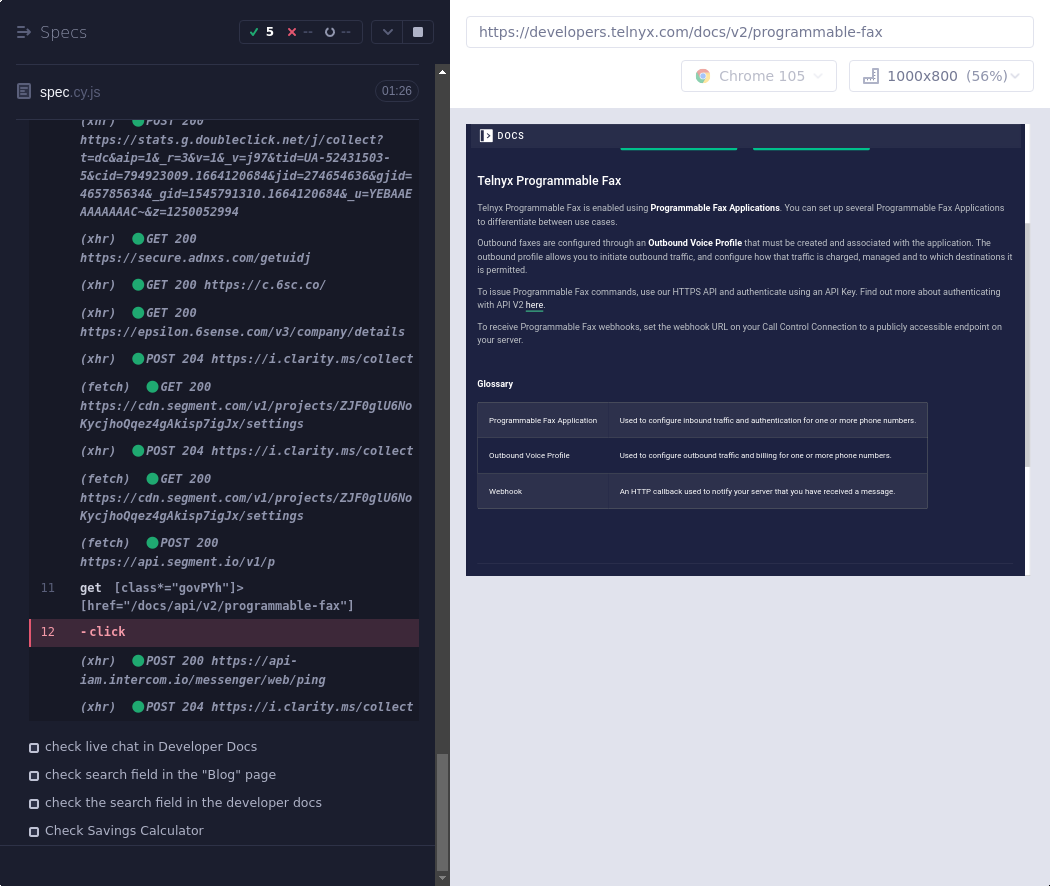
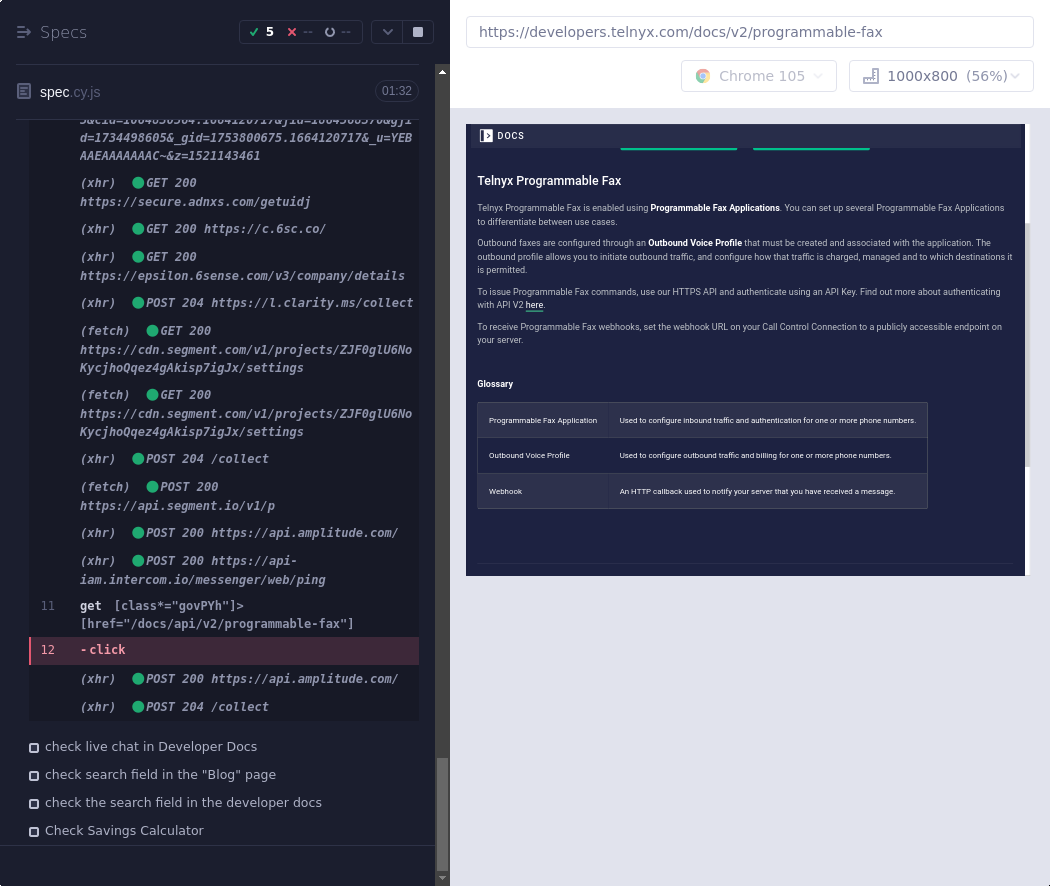
Deploying to gh-pages from @ DenysT07/cypress_autotest@f512103bbeec0a4104b3bbae30fe05e231874034 🚀

Changed region(s): [[0.0305, 0.1219, 0.3962, 0.8228]]

diff --git a/index.html b/index.html
@@ -1,2 +1,2 @@
 <!doctype html>
-<html lang="en"><head><meta charSet="utf-8"/><meta http-equiv="X-UA-Compatible" content="IE=edge"/><meta name="viewport" content="width=device-width, initial-scale=1"/><title>Mochawesome Report</title><link rel="stylesheet" href="assets/app.css"/></head><body data-raw="{&quot;stats&quot;:{&quot;suites&quot;:1,&quot;tests&quot;:10,&quot;passes&quot;:9,&quot;pending&quot;:0,&quot;failures&quot;:1,&quot;start&quot;:&quot;2022-09-25T15:43:26.224Z&quot;,&quot;end&quot;:&quot;2022-09-25T15:45:40.666Z&quot;,&quot;duration&quot;:108730,&quot;testsRegistered&quot;:10,&quot;passPercent&quot;:90,&quot;pendingPercent&quot;:0,&quot;other&quot;:0,&quot;hasOther&quot;:false,&quot;skipped&quot;:0,&quot;hasSkipped&quot;:false},&quot;results&quot;:[{&quot;uuid&quot;:&quot;118c2c52-854c-4d2f-9dbb-179f91965720&quot;,&quot;title&quot;:&quot;&quot;,&quot;fullFile&quot;:&quot;cypress/e2e/spec/spec.cy.js&quot;,&quot;file&quot;:&quot;cypress/e2e/spec/spec.cy.js&quot;,&quot;beforeHooks&quot;:[],&quot;afterHooks&quot;:[],&quot;tests&quot;:[],&quot;suites&quot;:[{&quot;uuid&quot;:&quot;a7c3ea58-0657-4df8-a0f6-82c290bb8d34&quot;,&quot;title&quot;:&quot;registration forms tests&quot;,&quot;fullFile&quot;:&quot;cypress/e2e/spec/spec.cy.js&quot;,&quot;file&quot;:&quot;cypress/e2e/spec/spec.cy.js&quot;,&quot;beforeHooks&quot;:[],&quot;afterHooks&quot;:[],&quot;tests&quot;:[{&quot;title&quot;:&quot;Check registration page&quot;,&quot;fullTitle&quot;:&quot;registration forms tests Check registration page&quot;,&quot;timedOut&quot;:null,&quot;duration&quot;:27012,&quot;state&quot;:&quot;passed&quot;,&quot;speed&quot;:&quot;slow&quot;,&quot;pass&quot;:true,&quot;fail&quot;:false,&quot;pending&quot;:false,&quot;context&quot;:null,&quot;code&quot;:&quot;_mainPage.default.singUpClick();\n_registrationPage.default.fillNameField(randomstring);\n_registrationPage.default.fillEmailField(randomstring + &#x27;@gmail.com&#x27;);\n_registrationPage.default.fillpasswordfield(randomstringForPassword);\n_registrationPage.default.clickBothCheckBoxes();\n_registrationPage.default.clickCreataAccounyButt();\ncy.wait(10000);\n_registrationPage.default.clickCreataAccounyButt(); //to pass the recapcha need to press the button two times, work only in chrome\n\ncy.wait(10000);\n_registrationPage.default.sendEmailMessage.should(\&quot;have.text\&quot;, \&quot;reCAPTCHA validation required\&quot;);&quot;,&quot;err&quot;:{},&quot;uuid&quot;:&quot;6782b108-0c92-4a94-a9cb-f240ac81bb13&quot;,&quot;parentUUID&quot;:&quot;a7c3ea58-0657-4df8-a0f6-82c290bb8d34&quot;,&quot;isHook&quot;:false,&quot;skipped&quot;:false},{&quot;title&quot;:&quot;Check the \&quot;Talk to an expert\&quot; page&quot;,&quot;fullTitle&quot;:&quot;registration forms tests Check the \&quot;Talk to an expert\&quot; page&quot;,&quot;timedOut&quot;:null,&quot;duration&quot;:6246,&quot;state&quot;:&quot;passed&quot;,&quot;speed&quot;:&quot;medium&quot;,&quot;pass&quot;:true,&quot;fail&quot;:false,&quot;pending&quot;:false,&quot;context&quot;:null,&quot;code&quot;:&quot;_mainPage.default.rightMenueClick();\n_mainPage.default.talkToAnExpertButt();\n_talkToAnExpertPage.default.reasonDroplistSelect(&#x27;Support&#x27;);\n_talkToAnExpertPage.default.firstNameFill(randomstring);\n_talkToAnExpertPage.default.lastNameFill(randomstring);\n_talkToAnExpertPage.default.buisnesEmailFill(randomstring + &#x27;@gmail.com&#x27;);\n_talkToAnExpertPage.default.phoneNumberFill(phoneNumber);\n_talkToAnExpertPage.default.companyWebSiteFill(&#x27;http://www.&#x27; + randomstring + &#x27;.com/&#x27;);\n_talkToAnExpertPage.default.additionalInformationFill(&#x27;It is just a test&#x27;);\n_talkToAnExpertPage.default.countryCodeSelect(&#x27;+380&#x27;);\n_talkToAnExpertPage.default.checkBoxClick();\n_talkToAnExpertPage.default.submitClick();\n_talkToAnExpertPage.default.messageAfterRegist.should(\&quot;have.text\&quot;, \&quot;Thanks for Reaching Out!\&quot;);&quot;,&quot;err&quot;:{},&quot;uuid&quot;:&quot;2d0014fb-c6b3-494d-83ee-345f2ee327d3&quot;,&quot;parentUUID&quot;:&quot;a7c3ea58-0657-4df8-a0f6-82c290bb8d34&quot;,&quot;isHook&quot;:false,&quot;skipped&quot;:false},{&quot;title&quot;:&quot;check registration for beta testing on the integration page&quot;,&quot;fullTitle&quot;:&quot;registration forms tests check registration for beta testing on the integration page&quot;,&quot;timedOut&quot;:null,&quot;duration&quot;:9114,&quot;state&quot;:&quot;passed&quot;,&quot;speed&quot;:&quot;medium&quot;,&quot;pass&quot;:true,&quot;fail&quot;:false,&quot;pending&quot;:false,&quot;context&quot;:null,&quot;code&quot;:&quot;_mainPage.default.rightMenueClick();\n_mainPage.default.companyButtclick();\n_mainPage.default.integrationButtClick({\n  timeout: 2000\n});\ncy.wait(2000);\ncy.scrollTo(&#x27;bottom&#x27;);\n_integrationPage.default.firstNameFill(randomstring);\n_integrationPage.default.lastNameFill(randomstring);\n_integrationPage.default.buisnesEmailFill(randomstring + &#x27;@gmail.com&#x27;);\n_integrationPage.default.indastryFill(randomstring);\n_integrationPage.default.companyWebSiteFill(&#x27;http://www.&#x27; + randomstring + &#x27;.com/&#x27;);\n_integrationPage.default.useCaseDropListSelect(&#x27;Other&#x27;);\n_integrationPage.default.submitClick();\n_integrationPage.default.messageAfterRegist.should(\&quot;have.text\&quot;, \&quot;Thanks for your interest!\&quot;);&quot;,&quot;err&quot;:{},&quot;uuid&quot;:&quot;e50322c9-2537-4a9f-a2f4-d1308b007b25&quot;,&quot;parentUUID&quot;:&quot;a7c3ea58-0657-4df8-a0f6-82c290bb8d34&quot;,&quot;isHook&quot;:false,&quot;skipped&quot;:false},{&quot;title&quot;:&quot;check registrations for becoming a Telnix Partner on the Partners page &quot;,&quot;fullTitle&quot;:&quot;registration forms tests check registrations for becoming a Telnix Partner on the Partners page &quot;,&quot;timedOut&quot;:null,&quot;duration&quot;:7723,&quot;state&quot;:&quot;passed&quot;,&quot;speed&quot;:&quot;medium&quot;,&quot;pass&quot;:true,&quot;fail&quot;:false,&quot;pending&quot;:false,&quot;context&quot;:null,&quot;code&quot;:&quot;_mainPage.default.rightMenueClick();\n_mainPage.default.companyButtclick();\n_mainPage.default.partnerButtClick();\ncy.wait(2000);\ncy.scrollTo(&#x27;bottom&#x27;);\n_partnerPage.default.firstNameFill(randomstring);\n_partnerPage.default.lastNameFill(randomstring);\n_partnerPage.default.buisnesEmailFill(randomstring + &#x27;@gmail.com&#x27;);\n_partnerPage.default.phoneFill(&#x27;380&#x27; + phoneNumber);\n_partnerPage.default.companyFill(randomstring);\n_partnerPage.default.TellAsFormFill(&#x27;It is just a test&#x27;);\n_partnerPage.default.partnerTypeDropListSelect(&#x27;MSP&#x27;);\n_partnerPage.default.checkBoxLocClick();\n_partnerPage.default.applyNowButtClick();\ncy.url({\n  timeout: 20000\n}).should(&#x27;contains&#x27;, &#x27;https://telnyx.com/company/partnerships?&#x27;); // there is a bug, i decided to check actual URL to pass this test&quot;,&quot;err&quot;:{},&quot;uuid&quot;:&quot;0372f178-d31f-41bd-bea7-eaa4974ee985&quot;,&quot;parentUUID&quot;:&quot;a7c3ea58-0657-4df8-a0f6-82c290bb8d34&quot;,&quot;isHook&quot;:false,&quot;skipped&quot;:false},{&quot;title&quot;:&quot;check registrations for the Waitlist on the storage page &quot;,&quot;fullTitle&quot;:&quot;registration forms tests check registrations for the Waitlist on the storage page &quot;,&quot;timedOut&quot;:null,&quot;duration&quot;:8331,&quot;state&quot;:&quot;passed&quot;,&quot;speed&quot;:&quot;medium&quot;,&quot;pass&quot;:true,&quot;fail&quot;:false,&quot;pending&quot;:false,&quot;context&quot;:null,&quot;code&quot;:&quot;_mainPage.default.rightMenueClick();\n_mainPage.default.productsButtcClick();\n_mainPage.default.storageButtClock();\ncy.wait(3000);\ncy.scrollTo(&#x27;bottom&#x27;);\n_storagePage.default.firstNameFill(randomstring);\n_storagePage.default.lastNameFill(randomstring);\n_storagePage.default.buisnesEmailFill(randomstring + &#x27;@gmail.com&#x27;);\n_storagePage.default.TellAsFormFill(&#x27;It is just a test&#x27;);\n_storagePage.default.checkBoxClick();\n_storagePage.default.applyNowButtClick();\n_storagePage.default.messageAfterRegist.should(\&quot;have.text\&quot;, \&quot;You&#x27;re on the waitlist!\&quot;);&quot;,&quot;err&quot;:{},&quot;uuid&quot;:&quot;659110a8-4c39-45bc-a735-a1b8c85c1a3e&quot;,&quot;parentUUID&quot;:&quot;a7c3ea58-0657-4df8-a0f6-82c290bb8d34&quot;,&quot;isHook&quot;:false,&quot;skipped&quot;:false}],&quot;suites&quot;:[],&quot;passes&quot;:[&quot;6782b108-0c92-4a94-a9cb-f240ac81bb13&quot;,&quot;2d0014fb-c6b3-494d-83ee-345f2ee327d3&quot;,&quot;e50322c9-2537-4a9f-a2f4-d1308b007b25&quot;,&quot;0372f178-d31f-41bd-bea7-eaa4974ee985&quot;,&quot;659110a8-4c39-45bc-a735-a1b8c85c1a3e&quot;],&quot;failures&quot;:[],&quot;pending&quot;:[],&quot;skipped&quot;:[],&quot;duration&quot;:58426,&quot;root&quot;:false,&quot;rootEmpty&quot;:false,&quot;_timeout&quot;:2000},{&quot;uuid&quot;:&quot;a68c7401-de25-47fe-9ff1-b8a71b6a76b3&quot;,&quot;title&quot;:&quot;Functional tests&quot;,&quot;fullFile&quot;:&quot;cypress/e2e/spec/spec.cy.js&quot;,&quot;file&quot;:&quot;cypress/e2e/spec/spec.cy.js&quot;,&quot;beforeHooks&quot;:[],&quot;afterHooks&quot;:[],&quot;tests&quot;:[{&quot;title&quot;:&quot;check link to the Postman colection&quot;,&quot;fullTitle&quot;:&quot;Functional tests check link to the Postman colection&quot;,&quot;timedOut&quot;:null,&quot;duration&quot;:15091,&quot;state&quot;:&quot;failed&quot;,&quot;speed&quot;:null,&quot;pass&quot;:false,&quot;fail&quot;:true,&quot;pending&quot;:false,&quot;context&quot;:&quot;[{\&quot;title\&quot;:\&quot;Failed screenshot\&quot;,\&quot;value\&quot;:\&quot;screenshots/spec.cy.js/Functional tests -- check link to the Postman colection (failed).png\&quot;}]&quot;,&quot;code&quot;:&quot;_mainPage.default.rightMenueClick();\n_mainPage.default.productsButtcClick();\n_mainPage.default.seeAllProductsButtClick();\n_faxApiPage.default.faxApiButtClick();\n_faxApiPage.default.exploreTheDocButtClick();\n_faxApiPage.default.seeTheSpecButtclick();\n_faxApiPage.default.runInPostmanButtClick();\ncy.url({\n  timeout: 20000\n}).should(&#x27;contains&#x27;, &#x27;d8c640348288&#x27;);&quot;,&quot;err&quot;:{&quot;message&quot;:&quot;CypressError: Timed out retrying after 4050ms: `cy.click()` failed because this element:\n\n`&lt;a color=\&quot;primary\&quot; class=\&quot;sc-45040057-0 ewCCKw sc-992a1474-0 fkNdTQ mchNoDecorate\&quot; href=\&quot;/docs/api/v2/programmable-fax\&quot;&gt;See the...&lt;/a&gt;`\n\nis being covered by another element:\n\n`&lt;label for=\&quot;telnyx-mobile-sidebar\&quot; class=\&quot;sc-249d42c8-0 erLUQr\&quot;&gt;...&lt;/label&gt;`\n\nFix this problem, or use {force: true} to disable error checking.\n\nhttps://on.cypress.io/element-cannot-be-interacted-with&quot;,&quot;estack&quot;:&quot;CypressError: Timed out retrying after 4050ms: `cy.click()` failed because this element:\n\n`&lt;a color=\&quot;primary\&quot; class=\&quot;sc-45040057-0 ewCCKw sc-992a1474-0 fkNdTQ mchNoDecorate\&quot; href=\&quot;/docs/api/v2/programmable-fax\&quot;&gt;See the...&lt;/a&gt;`\n\nis being covered by another element:\n\n`&lt;label for=\&quot;telnyx-mobile-sidebar\&quot; class=\&quot;sc-249d42c8-0 erLUQr\&quot;&gt;...&lt;/label&gt;`\n\nFix this problem, or use {force: true} to disable error checking.\n\nhttps://on.cypress.io/element-cannot-be-interacted-with\n    at $Cy.ensureDescendents (https://telnyx.com/__cypress/runner/cypress_runner.js:147512:78)\n    at ensureDescendents (https://telnyx.com/__cypress/runner/cypress_runner.js:132962:8)\n    at ensureDescendentsAndScroll (https://telnyx.com/__cypress/runner/cypress_runner.js:132969:14)\n    at ensureElIsNotCovered (https://telnyx.com/__cypress/runner/cypress_runner.js:133101:5)\n    at runAllChecks (https://telnyx.com/__cypress/runner/cypress_runner.js:133291:52)\n    at retryActionability (https://telnyx.com/__cypress/runner/cypress_runner.js:133315:16)\n    at tryCatcher (https://telnyx.com/__cypress/runner/cypress_runner.js:11318:23)\n    at Promise.attempt.Promise.try (https://telnyx.com/__cypress/runner/cypress_runner.js:8592:29)\n    at whenStable (https://telnyx.com/__cypress/runner/cypress_runner.js:152495:65)\n    at &lt;unknown&gt; (https://telnyx.com/__cypress/runner/cypress_runner.js:151949:14)\n    at tryCatcher (https://telnyx.com/__cypress/runner/cypress_runner.js:11318:23)\n    at Promise._settlePromiseFromHandler (https://telnyx.com/__cypress/runner/cypress_runner.js:9253:31)\n    at Promise._settlePromise (https://telnyx.com/__cypress/runner/cypress_runner.js:9310:18)\n    at Promise._settlePromise0 (https://telnyx.com/__cypress/runner/cypress_runner.js:9355:10)\n    at Promise._settlePromises (https://telnyx.com/__cypress/runner/cypress_runner.js:9435:18)\n    at Promise._fulfill (https://telnyx.com/__cypress/runner/cypress_runner.js:9379:18)\n    at &lt;unknown&gt; (https://telnyx.com/__cypress/runner/cypress_runner.js:10993:46)\nFrom Your Spec Code:\n    at faxApiPage.seeTheSpecButtclick (webpack:///./cypress/e2e/pages/faxApiPage.js:14:34)\n    at Context.eval (webpack:///./cypress/e2e/spec/spec.cy.js:121:15)&quot;,&quot;diff&quot;:null},&quot;uuid&quot;:&quot;c242e05e-d960-420a-83c5-7cc6e74e500c&quot;,&quot;parentUUID&quot;:&quot;a68c7401-de25-47fe-9ff1-b8a71b6a76b3&quot;,&quot;isHook&quot;:false,&quot;skipped&quot;:false},{&quot;title&quot;:&quot;check live chat in Developer Docs&quot;,&quot;fullTitle&quot;:&quot;Functional tests check live chat in Developer Docs&quot;,&quot;timedOut&quot;:null,&quot;duration&quot;:16632,&quot;state&quot;:&quot;passed&quot;,&quot;speed&quot;:&quot;slow&quot;,&quot;pass&quot;:true,&quot;fail&quot;:false,&quot;pending&quot;:false,&quot;context&quot;:null,&quot;code&quot;:&quot;_mainPage.default.rightMenueClick();\n_mainPage.default.resourcesButtclick();\n_mainPage.default.devDocsButtclick();\ncy.scrollTo(&#x27;bottom&#x27;);\ncy.wait(6000);\n_devDocsPage.default.liveChatButtclick();\ncy.wait(5000);\n_devDocsPage.default.serchFieldLiveChatButtClick();\n_devDocsPage.default.serchFieldLiveChatFill(&#x27;sms&#x27;);\ncy.wait(1000);\n_devDocsPage.default.findEntryAndClick(&#x27;Sending Alphanumeric&#x27;);\n_devDocsPage.default.entryTitle.should(\&quot;have.text\&quot;, \&quot;Sending Alphanumeric SMS\&quot;);&quot;,&quot;err&quot;:{},&quot;uuid&quot;:&quot;513ce796-7cd8-44fd-90c5-318b56ad2f9e&quot;,&quot;parentUUID&quot;:&quot;a68c7401-de25-47fe-9ff1-b8a71b6a76b3&quot;,&quot;isHook&quot;:false,&quot;skipped&quot;:false},{&quot;title&quot;:&quot;check search field in the \&quot;Blog\&quot; page&quot;,&quot;fullTitle&quot;:&quot;Functional tests check search field in the \&quot;Blog\&quot; page&quot;,&quot;timedOut&quot;:null,&quot;duration&quot;:9155,&quot;state&quot;:&quot;passed&quot;,&quot;speed&quot;:&quot;medium&quot;,&quot;pass&quot;:true,&quot;fail&quot;:false,&quot;pending&quot;:false,&quot;context&quot;:null,&quot;code&quot;:&quot;_mainPage.default.rightMenueClick();\n_mainPage.default.resourcesButtclick();\n_mainPage.default.blogeButtClick();\n_blogPage.default.serchFieldFill(&#x27;Programmable fax{enter}&#x27;);\ncy.wait(6000);\ncy.contains(&#x27;Programmable fax - switch from Twilio to Telnyx&#x27;).click();\n_blogPage.default.entruTitle.should(&#x27;have.text&#x27;, &#x27;Programmable fax - switch from Twilio to Telnyx &#x27;);&quot;,&quot;err&quot;:{},&quot;uuid&quot;:&quot;6794d67c-2955-49f9-9611-85f7b6dde043&quot;,&quot;parentUUID&quot;:&quot;a68c7401-de25-47fe-9ff1-b8a71b6a76b3&quot;,&quot;isHook&quot;:false,&quot;skipped&quot;:false},{&quot;title&quot;:&quot;check the search field in the developer docs&quot;,&quot;fullTitle&quot;:&quot;Functional tests check the search field in the developer docs&quot;,&quot;timedOut&quot;:null,&quot;duration&quot;:4641,&quot;state&quot;:&quot;passed&quot;,&quot;speed&quot;:&quot;fast&quot;,&quot;pass&quot;:true,&quot;fail&quot;:false,&quot;pending&quot;:false,&quot;context&quot;:null,&quot;code&quot;:&quot;_mainPage.default.rightMenueClick();\n_mainPage.default.resourcesButtclick();\n_mainPage.default.devDocsButtclick();\n_devDocsPage.default.lefMenuClick();\n_devDocsPage.default.serchFieldLeftMenuFill(&#x27;api&#x27;);\ncy.contains(&#x27; Services in Europe&#x27;).click({\n  force: true\n});\n_devDocsPage.default.mainEntryTitle.should(&#x27;have.text&#x27;, &#x27;Voice API Services in Europe&#x27;);&quot;,&quot;err&quot;:{},&quot;uuid&quot;:&quot;aedcc7bf-85fd-4ac4-9352-0a127534133d&quot;,&quot;parentUUID&quot;:&quot;a68c7401-de25-47fe-9ff1-b8a71b6a76b3&quot;,&quot;isHook&quot;:false,&quot;skipped&quot;:false},{&quot;title&quot;:&quot;Check Savings Calculator&quot;,&quot;fullTitle&quot;:&quot;Functional tests Check Savings Calculator&quot;,&quot;timedOut&quot;:null,&quot;duration&quot;:4785,&quot;state&quot;:&quot;passed&quot;,&quot;speed&quot;:&quot;fast&quot;,&quot;pass&quot;:true,&quot;fail&quot;:false,&quot;pending&quot;:false,&quot;context&quot;:null,&quot;code&quot;:&quot;_mainPage.default.rightMenueClick();\n_mainPage.default.resourcesButtclick();\n_mainPage.default.CalculatorButtClick();\ncy.wait(2000);\n_calculatorPage.default.messagingApiButtClick();\n_calculatorPage.default.voiceApiButtClick();\n_calculatorPage.default.continueButtClick();\n_calculatorPage.default.localNumberFieldFill(&#x27;{selectall}321&#x27;);\n_calculatorPage.default.tollFreeNumberFieldClick(&#x27;{selectall}123&#x27;);\n_calculatorPage.default.continueButtClick();\n_calculatorPage.default.totalSavingResult.should(&#x27;have.text&#x27;, &#x27;$12,940/ year&#x27;);&quot;,&quot;err&quot;:{},&quot;uuid&quot;:&quot;30496e82-7b84-48ef-80b0-4eb41c5653ec&quot;,&quot;parentUUID&quot;:&quot;a68c7401-de25-47fe-9ff1-b8a71b6a76b3&quot;,&quot;isHook&quot;:false,&quot;skipped&quot;:false}],&quot;suites&quot;:[],&quot;passes&quot;:[&quot;513ce796-7cd8-44fd-90c5-318b56ad2f9e&quot;,&quot;6794d67c-2955-49f9-9611-85f7b6dde043&quot;,&quot;aedcc7bf-85fd-4ac4-9352-0a127534133d&quot;,&quot;30496e82-7b84-48ef-80b0-4eb41c5653ec&quot;],&quot;failures&quot;:[&quot;c242e05e-d960-420a-83c5-7cc6e74e500c&quot;],&quot;pending&quot;:[],&quot;skipped&quot;:[],&quot;duration&quot;:50304,&quot;root&quot;:false,&quot;rootEmpty&quot;:false,&quot;_timeout&quot;:2000}],&quot;passes&quot;:[],&quot;failures&quot;:[],&quot;pending&quot;:[],&quot;skipped&quot;:[],&quot;duration&quot;:0,&quot;root&quot;:true,&quot;rootEmpty&quot;:true,&quot;_timeout&quot;:2000}],&quot;meta&quot;:{&quot;mocha&quot;:{&quot;version&quot;:&quot;7.0.1&quot;},&quot;mochawesome&quot;:{&quot;options&quot;:{&quot;quiet&quot;:false,&quot;reportFilename&quot;:&quot;mochawesome&quot;,&quot;saveHtml&quot;:false,&quot;saveJson&quot;:true,&quot;consoleReporter&quot;:&quot;spec&quot;,&quot;useInlineDiffs&quot;:false,&quot;code&quot;:true},&quot;version&quot;:&quot;7.1.3&quot;},&quot;marge&quot;:{&quot;options&quot;:{&quot;overwrite&quot;:false,&quot;html&quot;:false,&quot;json&quot;:true,&quot;reportDir&quot;:&quot;cypress/reports/html/.jsons&quot;},&quot;version&quot;:&quot;6.2.0&quot;}}}" data-config="{&quot;reportFilename&quot;:&quot;index.html&quot;,&quot;reportDir&quot;:&quot;/home/runner/work/cypress_autotest/cypress_autotest/cypress/reports/html&quot;,&quot;reportTitle&quot;:&quot;cypress_autotest&quot;,&quot;reportPageTitle&quot;:&quot;Mochawesome Report&quot;,&quot;inline&quot;:false,&quot;inlineAssets&quot;:false,&quot;cdn&quot;:false,&quot;charts&quot;:false,&quot;enableCharts&quot;:false,&quot;code&quot;:true,&quot;enableCode&quot;:true,&quot;autoOpen&quot;:false,&quot;overwrite&quot;:true,&quot;timestamp&quot;:false,&quot;ts&quot;:false,&quot;showPassed&quot;:true,&quot;showFailed&quot;:true,&quot;showPending&quot;:true,&quot;showSkipped&quot;:false,&quot;showHooks&quot;:&quot;failed&quot;,&quot;saveJson&quot;:false,&quot;saveHtml&quot;:true,&quot;dev&quot;:false,&quot;assetsDir&quot;:&quot;/home/runner/work/cypress_autotest/cypress_autotest/cypress/reports/html/assets&quot;,&quot;htmlFile&quot;:&quot;/home/runner/work/cypress_autotest/cypress_autotest/cypress/reports/html/index.html&quot;}"><div id="report"></div><script src="assets/app.js"></script></body></html>
+<html lang="en"><head><meta charSet="utf-8"/><meta http-equiv="X-UA-Compatible" content="IE=edge"/><meta name="viewport" content="width=device-width, initial-scale=1"/><title>Mochawesome Report</title><link rel="stylesheet" href="assets/app.css"/></head><body data-raw="{&quot;stats&quot;:{&quot;suites&quot;:1,&quot;tests&quot;:10,&quot;passes&quot;:9,&quot;pending&quot;:0,&quot;failures&quot;:1,&quot;start&quot;:&quot;2022-09-25T15:43:52.528Z&quot;,&quot;end&quot;:&quot;2022-09-25T15:46:17.843Z&quot;,&quot;duration&quot;:115272,&quot;testsRegistered&quot;:10,&quot;passPercent&quot;:90,&quot;pendingPercent&quot;:0,&quot;other&quot;:0,&quot;hasOther&quot;:false,&quot;skipped&quot;:0,&quot;hasSkipped&quot;:false},&quot;results&quot;:[{&quot;uuid&quot;:&quot;81b94567-c8e0-496c-9b95-750bcab4561e&quot;,&quot;title&quot;:&quot;&quot;,&quot;fullFile&quot;:&quot;cypress/e2e/spec/spec.cy.js&quot;,&quot;file&quot;:&quot;cypress/e2e/spec/spec.cy.js&quot;,&quot;beforeHooks&quot;:[],&quot;afterHooks&quot;:[],&quot;tests&quot;:[],&quot;suites&quot;:[{&quot;uuid&quot;:&quot;d6a82ece-077f-41b2-b660-850c6c28de1b&quot;,&quot;title&quot;:&quot;registration forms tests&quot;,&quot;fullFile&quot;:&quot;cypress/e2e/spec/spec.cy.js&quot;,&quot;file&quot;:&quot;cypress/e2e/spec/spec.cy.js&quot;,&quot;beforeHooks&quot;:[],&quot;afterHooks&quot;:[],&quot;tests&quot;:[{&quot;title&quot;:&quot;Check registration page&quot;,&quot;fullTitle&quot;:&quot;registration forms tests Check registration page&quot;,&quot;timedOut&quot;:null,&quot;duration&quot;:27401,&quot;state&quot;:&quot;passed&quot;,&quot;speed&quot;:&quot;slow&quot;,&quot;pass&quot;:true,&quot;fail&quot;:false,&quot;pending&quot;:false,&quot;context&quot;:null,&quot;code&quot;:&quot;_mainPage.default.singUpClick();\n_registrationPage.default.fillNameField(randomstring);\n_registrationPage.default.fillEmailField(randomstring + &#x27;@gmail.com&#x27;);\n_registrationPage.default.fillpasswordfield(randomstringForPassword);\n_registrationPage.default.clickBothCheckBoxes();\n_registrationPage.default.clickCreataAccounyButt();\ncy.wait(10000);\n_registrationPage.default.clickCreataAccounyButt(); //to pass the recapcha need to press the button two times, work only in chrome\n\ncy.wait(10000);\n_registrationPage.default.sendEmailMessage.should(\&quot;have.text\&quot;, \&quot;reCAPTCHA validation required\&quot;);&quot;,&quot;err&quot;:{},&quot;uuid&quot;:&quot;db434792-9472-4100-a20e-b202944c99ed&quot;,&quot;parentUUID&quot;:&quot;d6a82ece-077f-41b2-b660-850c6c28de1b&quot;,&quot;isHook&quot;:false,&quot;skipped&quot;:false},{&quot;title&quot;:&quot;Check the \&quot;Talk to an expert\&quot; page&quot;,&quot;fullTitle&quot;:&quot;registration forms tests Check the \&quot;Talk to an expert\&quot; page&quot;,&quot;timedOut&quot;:null,&quot;duration&quot;:6996,&quot;state&quot;:&quot;passed&quot;,&quot;speed&quot;:&quot;medium&quot;,&quot;pass&quot;:true,&quot;fail&quot;:false,&quot;pending&quot;:false,&quot;context&quot;:null,&quot;code&quot;:&quot;_mainPage.default.rightMenueClick();\n_mainPage.default.talkToAnExpertButt();\n_talkToAnExpertPage.default.reasonDroplistSelect(&#x27;Support&#x27;);\n_talkToAnExpertPage.default.firstNameFill(randomstring);\n_talkToAnExpertPage.default.lastNameFill(randomstring);\n_talkToAnExpertPage.default.buisnesEmailFill(randomstring + &#x27;@gmail.com&#x27;);\n_talkToAnExpertPage.default.phoneNumberFill(phoneNumber);\n_talkToAnExpertPage.default.companyWebSiteFill(&#x27;http://www.&#x27; + randomstring + &#x27;.com/&#x27;);\n_talkToAnExpertPage.default.additionalInformationFill(&#x27;It is just a test&#x27;);\n_talkToAnExpertPage.default.countryCodeSelect(&#x27;+380&#x27;);\n_talkToAnExpertPage.default.checkBoxClick();\n_talkToAnExpertPage.default.submitClick();\n_talkToAnExpertPage.default.messageAfterRegist.should(\&quot;have.text\&quot;, \&quot;Thanks for Reaching Out!\&quot;);&quot;,&quot;err&quot;:{},&quot;uuid&quot;:&quot;35cb598f-4e17-4c9f-b64b-9da591bcf2be&quot;,&quot;parentUUID&quot;:&quot;d6a82ece-077f-41b2-b660-850c6c28de1b&quot;,&quot;isHook&quot;:false,&quot;skipped&quot;:false},{&quot;title&quot;:&quot;check registration for beta testing on the integration page&quot;,&quot;fullTitle&quot;:&quot;registration forms tests check registration for beta testing on the integration page&quot;,&quot;timedOut&quot;:null,&quot;duration&quot;:9694,&quot;state&quot;:&quot;passed&quot;,&quot;speed&quot;:&quot;medium&quot;,&quot;pass&quot;:true,&quot;fail&quot;:false,&quot;pending&quot;:false,&quot;context&quot;:null,&quot;code&quot;:&quot;_mainPage.default.rightMenueClick();\n_mainPage.default.companyButtclick();\n_mainPage.default.integrationButtClick({\n  timeout: 2000\n});\ncy.wait(2000);\ncy.scrollTo(&#x27;bottom&#x27;);\n_integrationPage.default.firstNameFill(randomstring);\n_integrationPage.default.lastNameFill(randomstring);\n_integrationPage.default.buisnesEmailFill(randomstring + &#x27;@gmail.com&#x27;);\n_integrationPage.default.indastryFill(randomstring);\n_integrationPage.default.companyWebSiteFill(&#x27;http://www.&#x27; + randomstring + &#x27;.com/&#x27;);\n_integrationPage.default.useCaseDropListSelect(&#x27;Other&#x27;);\n_integrationPage.default.submitClick();\n_integrationPage.default.messageAfterRegist.should(\&quot;have.text\&quot;, \&quot;Thanks for your interest!\&quot;);&quot;,&quot;err&quot;:{},&quot;uuid&quot;:&quot;1cb2630a-a49e-497b-9ba3-955233f645f8&quot;,&quot;parentUUID&quot;:&quot;d6a82ece-077f-41b2-b660-850c6c28de1b&quot;,&quot;isHook&quot;:false,&quot;skipped&quot;:false},{&quot;title&quot;:&quot;check registrations for becoming a Telnix Partner on the Partners page &quot;,&quot;fullTitle&quot;:&quot;registration forms tests check registrations for becoming a Telnix Partner on the Partners page &quot;,&quot;timedOut&quot;:null,&quot;duration&quot;:7673,&quot;state&quot;:&quot;passed&quot;,&quot;speed&quot;:&quot;medium&quot;,&quot;pass&quot;:true,&quot;fail&quot;:false,&quot;pending&quot;:false,&quot;context&quot;:null,&quot;code&quot;:&quot;_mainPage.default.rightMenueClick();\n_mainPage.default.companyButtclick();\n_mainPage.default.partnerButtClick();\ncy.wait(2000);\ncy.scrollTo(&#x27;bottom&#x27;);\n_partnerPage.default.firstNameFill(randomstring);\n_partnerPage.default.lastNameFill(randomstring);\n_partnerPage.default.buisnesEmailFill(randomstring + &#x27;@gmail.com&#x27;);\n_partnerPage.default.phoneFill(&#x27;380&#x27; + phoneNumber);\n_partnerPage.default.companyFill(randomstring);\n_partnerPage.default.TellAsFormFill(&#x27;It is just a test&#x27;);\n_partnerPage.default.partnerTypeDropListSelect(&#x27;MSP&#x27;);\n_partnerPage.default.checkBoxLocClick();\n_partnerPage.default.applyNowButtClick();\ncy.url({\n  timeout: 20000\n}).should(&#x27;contains&#x27;, &#x27;https://telnyx.com/company/partnerships?&#x27;); // there is a bug, i decided to check actual URL to pass this test&quot;,&quot;err&quot;:{},&quot;uuid&quot;:&quot;2d825a8d-c9d9-404f-b633-b9dc33e63a2a&quot;,&quot;parentUUID&quot;:&quot;d6a82ece-077f-41b2-b660-850c6c28de1b&quot;,&quot;isHook&quot;:false,&quot;skipped&quot;:false},{&quot;title&quot;:&quot;check registrations for the Waitlist on the storage page &quot;,&quot;fullTitle&quot;:&quot;registration forms tests check registrations for the Waitlist on the storage page &quot;,&quot;timedOut&quot;:null,&quot;duration&quot;:9496,&quot;state&quot;:&quot;passed&quot;,&quot;speed&quot;:&quot;medium&quot;,&quot;pass&quot;:true,&quot;fail&quot;:false,&quot;pending&quot;:false,&quot;context&quot;:null,&quot;code&quot;:&quot;_mainPage.default.rightMenueClick();\n_mainPage.default.productsButtcClick();\n_mainPage.default.storageButtClock();\ncy.wait(3000);\ncy.scrollTo(&#x27;bottom&#x27;);\n_storagePage.default.firstNameFill(randomstring);\n_storagePage.default.lastNameFill(randomstring);\n_storagePage.default.buisnesEmailFill(randomstring + &#x27;@gmail.com&#x27;);\n_storagePage.default.TellAsFormFill(&#x27;It is just a test&#x27;);\n_storagePage.default.checkBoxClick();\n_storagePage.default.applyNowButtClick();\n_storagePage.default.messageAfterRegist.should(\&quot;have.text\&quot;, \&quot;You&#x27;re on the waitlist!\&quot;);&quot;,&quot;err&quot;:{},&quot;uuid&quot;:&quot;e1fdff4f-3f6d-4d00-bf21-ef684b4d9b76&quot;,&quot;parentUUID&quot;:&quot;d6a82ece-077f-41b2-b660-850c6c28de1b&quot;,&quot;isHook&quot;:false,&quot;skipped&quot;:false}],&quot;suites&quot;:[],&quot;passes&quot;:[&quot;db434792-9472-4100-a20e-b202944c99ed&quot;,&quot;35cb598f-4e17-4c9f-b64b-9da591bcf2be&quot;,&quot;1cb2630a-a49e-497b-9ba3-955233f645f8&quot;,&quot;2d825a8d-c9d9-404f-b633-b9dc33e63a2a&quot;,&quot;e1fdff4f-3f6d-4d00-bf21-ef684b4d9b76&quot;],&quot;failures&quot;:[],&quot;pending&quot;:[],&quot;skipped&quot;:[],&quot;duration&quot;:61260,&quot;root&quot;:false,&quot;rootEmpty&quot;:false,&quot;_timeout&quot;:2000},{&quot;uuid&quot;:&quot;269ad4e8-8f29-41ab-bbb6-8f21e8298942&quot;,&quot;title&quot;:&quot;Functional tests&quot;,&quot;fullFile&quot;:&quot;cypress/e2e/spec/spec.cy.js&quot;,&quot;file&quot;:&quot;cypress/e2e/spec/spec.cy.js&quot;,&quot;beforeHooks&quot;:[],&quot;afterHooks&quot;:[],&quot;tests&quot;:[{&quot;title&quot;:&quot;check link to the Postman colection&quot;,&quot;fullTitle&quot;:&quot;Functional tests check link to the Postman colection&quot;,&quot;timedOut&quot;:null,&quot;duration&quot;:15954,&quot;state&quot;:&quot;failed&quot;,&quot;speed&quot;:null,&quot;pass&quot;:false,&quot;fail&quot;:true,&quot;pending&quot;:false,&quot;context&quot;:&quot;[{\&quot;title\&quot;:\&quot;Failed screenshot\&quot;,\&quot;value\&quot;:\&quot;screenshots/spec.cy.js/Functional tests -- check link to the Postman colection (failed).png\&quot;}]&quot;,&quot;code&quot;:&quot;_mainPage.default.rightMenueClick();\n_mainPage.default.productsButtcClick();\n_mainPage.default.seeAllProductsButtClick();\n_faxApiPage.default.faxApiButtClick();\n_faxApiPage.default.exploreTheDocButtClick();\n_faxApiPage.default.seeTheSpecButtclick();\n_faxApiPage.default.runInPostmanButtClick();\ncy.url({\n  timeout: 20000\n}).should(&#x27;contains&#x27;, &#x27;d8c640348288&#x27;);&quot;,&quot;err&quot;:{&quot;message&quot;:&quot;CypressError: Timed out retrying after 4050ms: `cy.click()` failed because this element:\n\n`&lt;a color=\&quot;primary\&quot; class=\&quot;sc-45040057-0 ewCCKw sc-992a1474-0 fkNdTQ mchNoDecorate\&quot; href=\&quot;/docs/api/v2/programmable-fax\&quot;&gt;See the...&lt;/a&gt;`\n\nis being covered by another element:\n\n`&lt;label for=\&quot;telnyx-mobile-sidebar\&quot; class=\&quot;sc-249d42c8-0 erLUQr\&quot;&gt;...&lt;/label&gt;`\n\nFix this problem, or use {force: true} to disable error checking.\n\nhttps://on.cypress.io/element-cannot-be-interacted-with&quot;,&quot;estack&quot;:&quot;CypressError: Timed out retrying after 4050ms: `cy.click()` failed because this element:\n\n`&lt;a color=\&quot;primary\&quot; class=\&quot;sc-45040057-0 ewCCKw sc-992a1474-0 fkNdTQ mchNoDecorate\&quot; href=\&quot;/docs/api/v2/programmable-fax\&quot;&gt;See the...&lt;/a&gt;`\n\nis being covered by another element:\n\n`&lt;label for=\&quot;telnyx-mobile-sidebar\&quot; class=\&quot;sc-249d42c8-0 erLUQr\&quot;&gt;...&lt;/label&gt;`\n\nFix this problem, or use {force: true} to disable error checking.\n\nhttps://on.cypress.io/element-cannot-be-interacted-with\n    at $Cy.ensureDescendents (https://telnyx.com/__cypress/runner/cypress_runner.js:147512:78)\n    at ensureDescendents (https://telnyx.com/__cypress/runner/cypress_runner.js:132962:8)\n    at ensureDescendentsAndScroll (https://telnyx.com/__cypress/runner/cypress_runner.js:132969:14)\n    at ensureElIsNotCovered (https://telnyx.com/__cypress/runner/cypress_runner.js:133101:5)\n    at runAllChecks (https://telnyx.com/__cypress/runner/cypress_runner.js:133291:52)\n    at retryActionability (https://telnyx.com/__cypress/runner/cypress_runner.js:133315:16)\n    at tryCatcher (https://telnyx.com/__cypress/runner/cypress_runner.js:11318:23)\n    at Promise.attempt.Promise.try (https://telnyx.com/__cypress/runner/cypress_runner.js:8592:29)\n    at whenStable (https://telnyx.com/__cypress/runner/cypress_runner.js:152495:65)\n    at &lt;unknown&gt; (https://telnyx.com/__cypress/runner/cypress_runner.js:151949:14)\n    at tryCatcher (https://telnyx.com/__cypress/runner/cypress_runner.js:11318:23)\n    at Promise._settlePromiseFromHandler (https://telnyx.com/__cypress/runner/cypress_runner.js:9253:31)\n    at Promise._settlePromise (https://telnyx.com/__cypress/runner/cypress_runner.js:9310:18)\n    at Promise._settlePromise0 (https://telnyx.com/__cypress/runner/cypress_runner.js:9355:10)\n    at Promise._settlePromises (https://telnyx.com/__cypress/runner/cypress_runner.js:9435:18)\n    at Promise._fulfill (https://telnyx.com/__cypress/runner/cypress_runner.js:9379:18)\n    at &lt;unknown&gt; (https://telnyx.com/__cypress/runner/cypress_runner.js:10993:46)\nFrom Your Spec Code:\n    at faxApiPage.seeTheSpecButtclick (webpack:///./cypress/e2e/pages/faxApiPage.js:14:34)\n    at Context.eval (webpack:///./cypress/e2e/spec/spec.cy.js:121:15)&quot;,&quot;diff&quot;:null},&quot;uuid&quot;:&quot;fb65fec0-3240-44b6-abf5-5c99eaa51f73&quot;,&quot;parentUUID&quot;:&quot;269ad4e8-8f29-41ab-bbb6-8f21e8298942&quot;,&quot;isHook&quot;:false,&quot;skipped&quot;:false},{&quot;title&quot;:&quot;check live chat in Developer Docs&quot;,&quot;fullTitle&quot;:&quot;Functional tests check live chat in Developer Docs&quot;,&quot;timedOut&quot;:null,&quot;duration&quot;:15972,&quot;state&quot;:&quot;passed&quot;,&quot;speed&quot;:&quot;slow&quot;,&quot;pass&quot;:true,&quot;fail&quot;:false,&quot;pending&quot;:false,&quot;context&quot;:null,&quot;code&quot;:&quot;_mainPage.default.rightMenueClick();\n_mainPage.default.resourcesButtclick();\n_mainPage.default.devDocsButtclick();\ncy.scrollTo(&#x27;bottom&#x27;);\ncy.wait(6000);\n_devDocsPage.default.liveChatButtclick();\ncy.wait(5000);\n_devDocsPage.default.serchFieldLiveChatButtClick();\n_devDocsPage.default.serchFieldLiveChatFill(&#x27;sms&#x27;);\ncy.wait(1000);\n_devDocsPage.default.findEntryAndClick(&#x27;Sending Alphanumeric&#x27;);\n_devDocsPage.default.entryTitle.should(\&quot;have.text\&quot;, \&quot;Sending Alphanumeric SMS\&quot;);&quot;,&quot;err&quot;:{},&quot;uuid&quot;:&quot;cf20c9f9-89ec-48a6-8799-a2c71cbcde49&quot;,&quot;parentUUID&quot;:&quot;269ad4e8-8f29-41ab-bbb6-8f21e8298942&quot;,&quot;isHook&quot;:false,&quot;skipped&quot;:false},{&quot;title&quot;:&quot;check search field in the \&quot;Blog\&quot; page&quot;,&quot;fullTitle&quot;:&quot;Functional tests check search field in the \&quot;Blog\&quot; page&quot;,&quot;timedOut&quot;:null,&quot;duration&quot;:10702,&quot;state&quot;:&quot;passed&quot;,&quot;speed&quot;:&quot;slow&quot;,&quot;pass&quot;:true,&quot;fail&quot;:false,&quot;pending&quot;:false,&quot;context&quot;:null,&quot;code&quot;:&quot;_mainPage.default.rightMenueClick();\n_mainPage.default.resourcesButtclick();\n_mainPage.default.blogeButtClick();\n_blogPage.default.serchFieldFill(&#x27;Programmable fax{enter}&#x27;);\ncy.wait(6000);\ncy.contains(&#x27;Programmable fax - switch from Twilio to Telnyx&#x27;).click();\n_blogPage.default.entruTitle.should(&#x27;have.text&#x27;, &#x27;Programmable fax - switch from Twilio to Telnyx &#x27;);&quot;,&quot;err&quot;:{},&quot;uuid&quot;:&quot;aacbe695-d7e8-42a6-9368-a7cd4a7193dd&quot;,&quot;parentUUID&quot;:&quot;269ad4e8-8f29-41ab-bbb6-8f21e8298942&quot;,&quot;isHook&quot;:false,&quot;skipped&quot;:false},{&quot;title&quot;:&quot;check the search field in the developer docs&quot;,&quot;fullTitle&quot;:&quot;Functional tests check the search field in the developer docs&quot;,&quot;timedOut&quot;:null,&quot;duration&quot;:6183,&quot;state&quot;:&quot;passed&quot;,&quot;speed&quot;:&quot;medium&quot;,&quot;pass&quot;:true,&quot;fail&quot;:false,&quot;pending&quot;:false,&quot;context&quot;:null,&quot;code&quot;:&quot;_mainPage.default.rightMenueClick();\n_mainPage.default.resourcesButtclick();\n_mainPage.default.devDocsButtclick();\n_devDocsPage.default.lefMenuClick();\n_devDocsPage.default.serchFieldLeftMenuFill(&#x27;api&#x27;);\ncy.contains(&#x27; Services in Europe&#x27;).click({\n  force: true\n});\n_devDocsPage.default.mainEntryTitle.should(&#x27;have.text&#x27;, &#x27;Voice API Services in Europe&#x27;);&quot;,&quot;err&quot;:{},&quot;uuid&quot;:&quot;327f0775-12fb-4992-85b5-75a7fe6d9b56&quot;,&quot;parentUUID&quot;:&quot;269ad4e8-8f29-41ab-bbb6-8f21e8298942&quot;,&quot;isHook&quot;:false,&quot;skipped&quot;:false},{&quot;title&quot;:&quot;Check Savings Calculator&quot;,&quot;fullTitle&quot;:&quot;Functional tests Check Savings Calculator&quot;,&quot;timedOut&quot;:null,&quot;duration&quot;:5201,&quot;state&quot;:&quot;passed&quot;,&quot;speed&quot;:&quot;medium&quot;,&quot;pass&quot;:true,&quot;fail&quot;:false,&quot;pending&quot;:false,&quot;context&quot;:null,&quot;code&quot;:&quot;_mainPage.default.rightMenueClick();\n_mainPage.default.resourcesButtclick();\n_mainPage.default.CalculatorButtClick();\ncy.wait(2000);\n_calculatorPage.default.messagingApiButtClick();\n_calculatorPage.default.voiceApiButtClick();\n_calculatorPage.default.continueButtClick();\n_calculatorPage.default.localNumberFieldFill(&#x27;{selectall}321&#x27;);\n_calculatorPage.default.tollFreeNumberFieldClick(&#x27;{selectall}123&#x27;);\n_calculatorPage.default.continueButtClick();\n_calculatorPage.default.totalSavingResult.should(&#x27;have.text&#x27;, &#x27;$12,940/ year&#x27;);&quot;,&quot;err&quot;:{},&quot;uuid&quot;:&quot;40bc85c8-b5a7-40f3-851a-83731b32febf&quot;,&quot;parentUUID&quot;:&quot;269ad4e8-8f29-41ab-bbb6-8f21e8298942&quot;,&quot;isHook&quot;:false,&quot;skipped&quot;:false}],&quot;suites&quot;:[],&quot;passes&quot;:[&quot;cf20c9f9-89ec-48a6-8799-a2c71cbcde49&quot;,&quot;aacbe695-d7e8-42a6-9368-a7cd4a7193dd&quot;,&quot;327f0775-12fb-4992-85b5-75a7fe6d9b56&quot;,&quot;40bc85c8-b5a7-40f3-851a-83731b32febf&quot;],&quot;failures&quot;:[&quot;fb65fec0-3240-44b6-abf5-5c99eaa51f73&quot;],&quot;pending&quot;:[],&quot;skipped&quot;:[],&quot;duration&quot;:54012,&quot;root&quot;:false,&quot;rootEmpty&quot;:false,&quot;_timeout&quot;:2000}],&quot;passes&quot;:[],&quot;failures&quot;:[],&quot;pending&quot;:[],&quot;skipped&quot;:[],&quot;duration&quot;:0,&quot;root&quot;:true,&quot;rootEmpty&quot;:true,&quot;_timeout&quot;:2000}],&quot;meta&quot;:{&quot;mocha&quot;:{&quot;version&quot;:&quot;7.0.1&quot;},&quot;mochawesome&quot;:{&quot;options&quot;:{&quot;quiet&quot;:false,&quot;reportFilename&quot;:&quot;mochawesome&quot;,&quot;saveHtml&quot;:false,&quot;saveJson&quot;:true,&quot;consoleReporter&quot;:&quot;spec&quot;,&quot;useInlineDiffs&quot;:false,&quot;code&quot;:true},&quot;version&quot;:&quot;7.1.3&quot;},&quot;marge&quot;:{&quot;options&quot;:{&quot;overwrite&quot;:false,&quot;html&quot;:false,&quot;json&quot;:true,&quot;reportDir&quot;:&quot;cypress/reports/html/.jsons&quot;},&quot;version&quot;:&quot;6.2.0&quot;}}}" data-config="{&quot;reportFilename&quot;:&quot;index.html&quot;,&quot;reportDir&quot;:&quot;/home/runner/work/cypress_autotest/cypress_autotest/cypress/reports/html&quot;,&quot;reportTitle&quot;:&quot;cypress_autotest&quot;,&quot;reportPageTitle&quot;:&quot;Mochawesome Report&quot;,&quot;inline&quot;:false,&quot;inlineAssets&quot;:false,&quot;cdn&quot;:false,&quot;charts&quot;:false,&quot;enableCharts&quot;:false,&quot;code&quot;:true,&quot;enableCode&quot;:true,&quot;autoOpen&quot;:false,&quot;overwrite&quot;:true,&quot;timestamp&quot;:false,&quot;ts&quot;:false,&quot;showPassed&quot;:true,&quot;showFailed&quot;:true,&quot;showPending&quot;:true,&quot;showSkipped&quot;:false,&quot;showHooks&quot;:&quot;failed&quot;,&quot;saveJson&quot;:false,&quot;saveHtml&quot;:true,&quot;dev&quot;:false,&quot;assetsDir&quot;:&quot;/home/runner/work/cypress_autotest/cypress_autotest/cypress/reports/html/assets&quot;,&quot;htmlFile&quot;:&quot;/home/runner/work/cypress_autotest/cypress_autotest/cypress/reports/html/index.html&quot;}"><div id="report"></div><script src="assets/app.js"></script></body></html>
